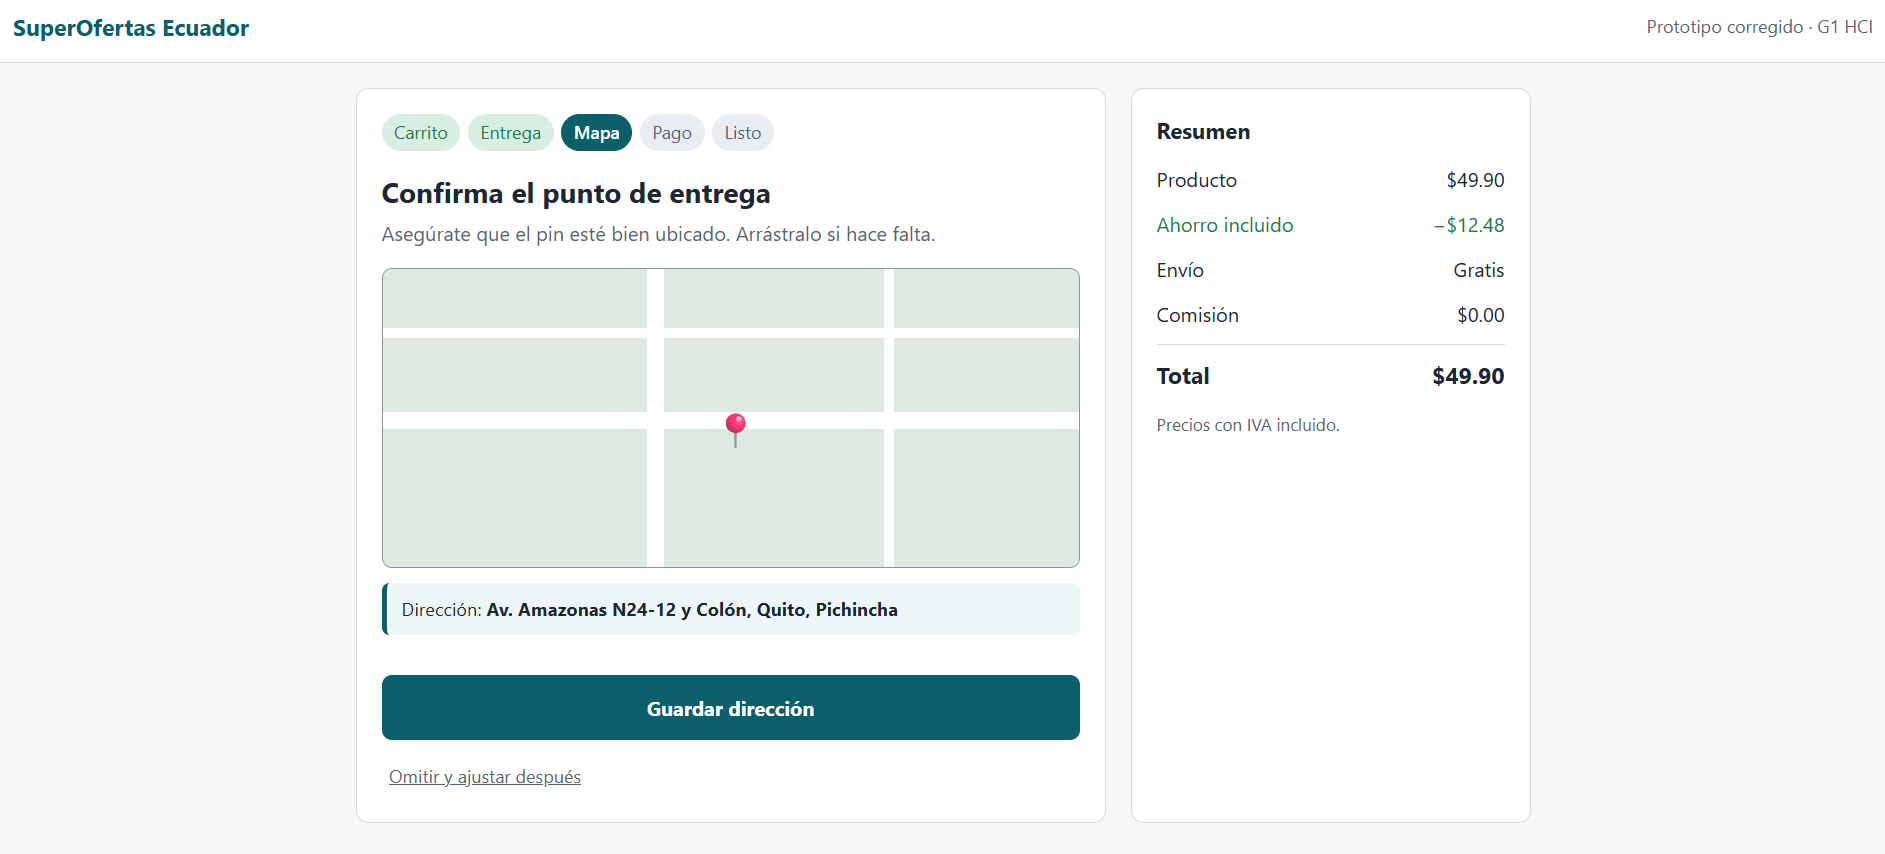
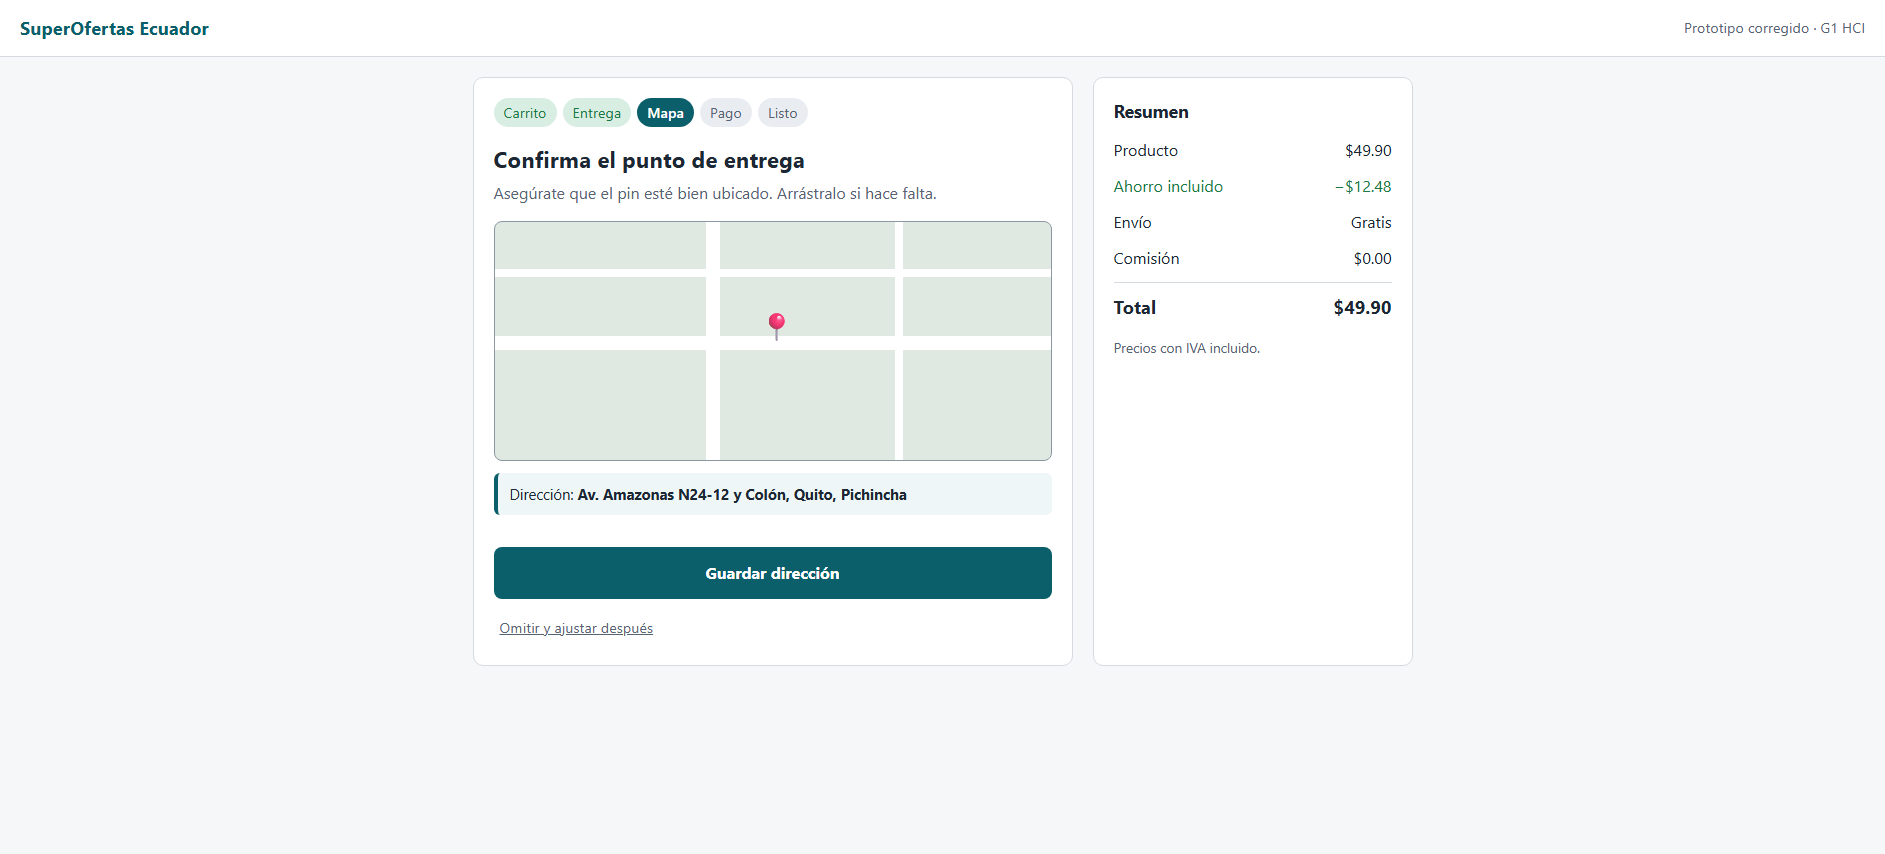
Corrige README de propuesta con issues reales y actualiza captura del mapa

diff --git a/prototipos/propuesta/README.md b/prototipos/propuesta/README.md
@@ -11,4 +11,4 @@ Código en `src/index.html`. Ábrelo con doble clic en el navegador (no necesita
 El mapa es una **simulación**: el pin no se geolocaliza a partir de la dirección escrita. Siempre aparece centrado en el mapa y la persona puede arrastrarlo para ajustarlo. En una versión real, el pin se centraría con un servicio de geocodificación a partir de la dirección ingresada.
 
 ## Issues que resuelve
-Completar con los números reales: Mejora 1 → #7,#8,#9 · Mejora 2 → #10, #11, #12, #13, #15 · Mejora 3 → #16, #17, #18, #19 .
+Mejora 1 → #7, #8, #9 · Mejora 2 → #10, #11, #12, #13 (#14 duplicada), #15 · Mejora 3 → #16, #17, #18, #19
